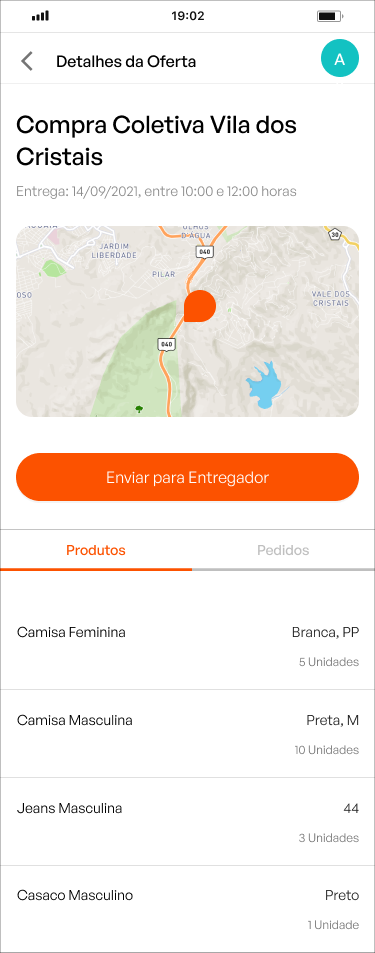
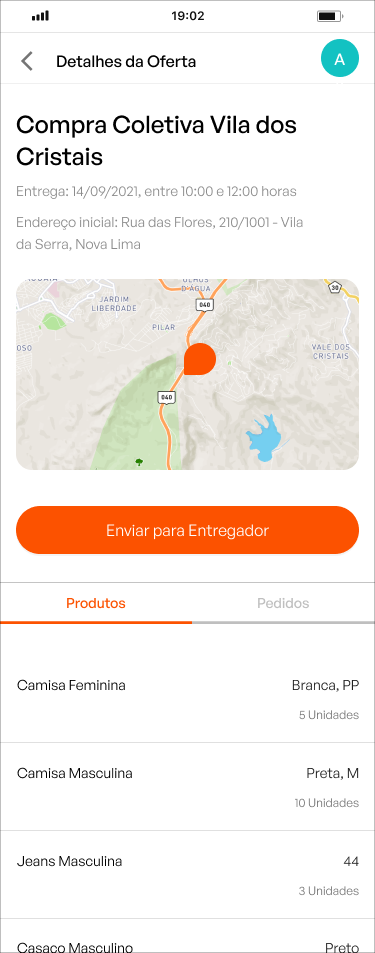
add initial address

diff --git a/Codigo/MobileApp/lib/app/modules/delivery_details/widgets/delivery_details_header.dart b/Codigo/MobileApp/lib/app/modules/delivery_details/widgets/delivery_details_header.dart
@@ -1,3 +1,4 @@
+import 'package:delivery_manager/app/data/enums/delivery_status.dart';
 import 'package:delivery_manager/app/data/models/delivery.dart';
 import 'package:flutter/material.dart';
 import 'package:get/get.dart';
@@ -25,10 +26,17 @@ class DeliveryDetailsHeader extends StatelessWidget {
           Text(delivery.name!, style: Get.textTheme.headline5),
           const SizedBox(height: 8),
           Text(
-            'delivery_subtitle'
+            'delivery_${delivery.status!.value}_subtitle'
                 .tr
                 .replaceAll(':day', delivery.deliveryDate!.day.toString())
                 .replaceAll(':hour', delivery.deliveryDate!.hour.toString()),
+          ),
+          const SizedBox(height: 16),
+          Text(
+            'delivery_initial_address'.tr.replaceAll(
+                  ':address',
+                  delivery.orders![0].shippingAddress.formatted,
+                ),
           ),
           const SizedBox(height: 24),
           ClipRRect(

diff --git a/Codigo/MobileApp/lib/app/data/models/address.dart b/Codigo/MobileApp/lib/app/data/models/address.dart
@@ -5,6 +5,8 @@ part 'address.g.dart';
 
 @Freezed()
 class Address with _$Address {
+  const Address._();
+
   const factory Address({
     required int addressId,
     required String cityName,
@@ -20,4 +22,7 @@ class Address with _$Address {
 
   factory Address.fromJson(Map<String, dynamic> json) =>
       _$AddressFromJson(json);
+
+  String get formatted =>
+      '$streetName, $streetNumber${unitNumber != null ? '/$unitNumber' : ''} - $neighborhoodName, $cityName - $countryState';
 }

diff --git a/Codigo/MobileApp/lib/app/translations/pt_BR/pt_br_translations.dart b/Codigo/MobileApp/lib/app/translations/pt_BR/pt_br_translations.dart
@@ -32,6 +32,7 @@ final _listContent = {
   'delivery_created_subtitle': 'Entrega prevista: dia :day às :hour horas',
   'delivery_in_progress_subtitle': 'Entrega prevista: dia :day às :hour horas',
   'delivery_finished_subtitle': 'Entregue: dia :day às :hour horas',
+  'delivery_initial_address': 'Endereço inicial: :address'
 };
 
 final _inputLabels = {
